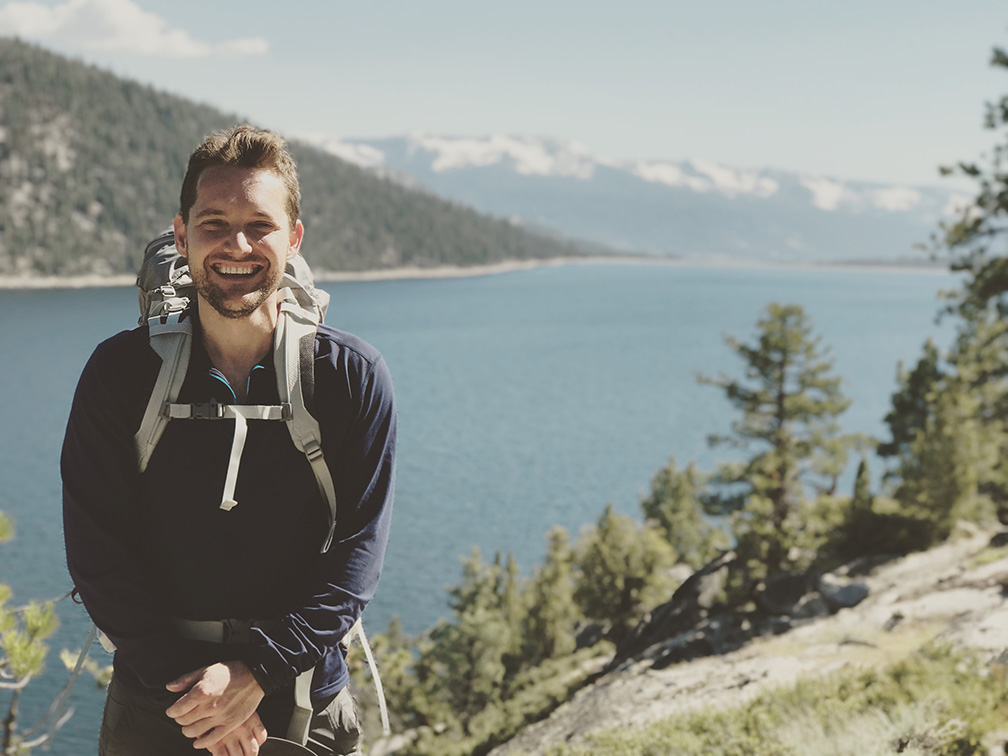
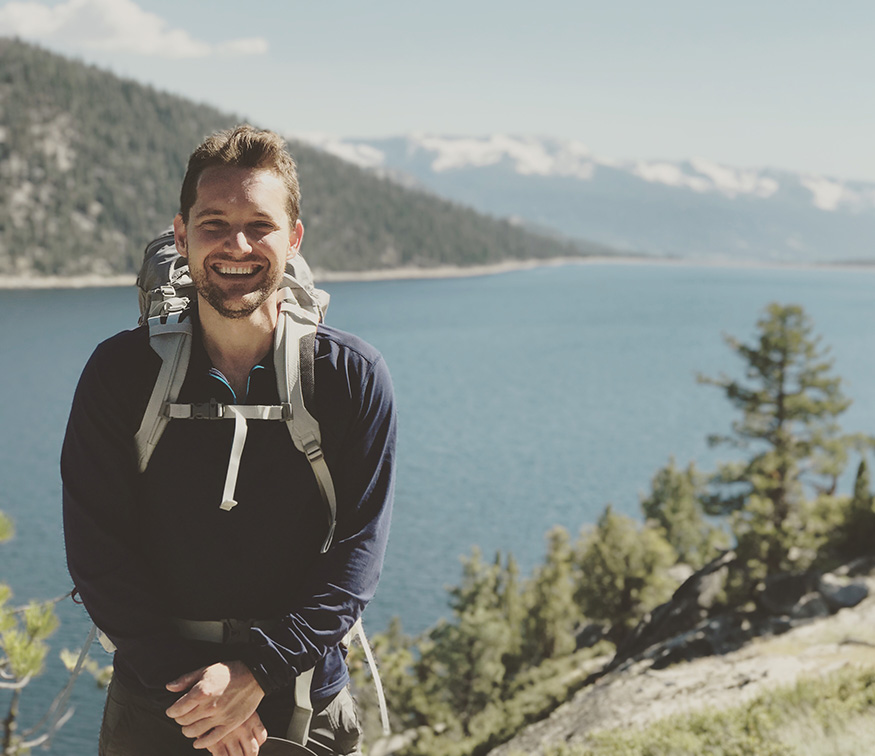
Updating Game Dev download links

diff --git a/src/index.html b/src/index.html
@@ -12,7 +12,7 @@
         <div
           style="
             display: flex;
-            align-items: flex-start;
+            align-items: center;
             gap: var(--space5);
             margin-top: var(--space6);
           "
@@ -20,11 +20,11 @@
           <img
             src="assets/stephen-haney-backpacking-sierras.jpg"
             alt="Stephen Haney backpacking in the Sierras. A mountain lake is in the background."
-            width="40%"
+            width="36%"
             style="margin: 0"
           />
 
-          <div style="margin-top: var(--space4)">
+          <div>
             <h1>Hey, I'm Stephen</h1>
 
             <p>

diff --git a/scripts/src/main.rs b/scripts/src/main.rs
@@ -146,11 +146,14 @@ fn build_file(file_path: &std::path::PathBuf) {
             let template_raw_html = fs::read_to_string(&template_file_path)
                 .expect("Could not find _template.html file for markdown");
 
-            let mut final_html = bake_markdown::bake_markdown(raw_md, template_raw_html);
-            // We need to use the source path for the template as imports are relative to the template
-            final_html = bake_imports::bake_imports(&template_file_path, final_html);
-            let modified_source_path = file_path.with_extension("html");
-            write_file::write_file(&modified_source_path, &final_html);
+            if let Some(mut final_html) = bake_markdown::bake_markdown(raw_md, template_raw_html) {
+                // We need to use the source path for the template as imports are relative to the template
+                final_html = bake_imports::bake_imports(&template_file_path, final_html);
+                let modified_source_path = file_path.with_extension("html");
+                write_file::write_file(&modified_source_path, &final_html);
+            } else {
+                println!("Skipping markdown file: {:?}", &file_path);
+            }
         }
         // Anything else, copy over directly:
         _ => copy_file::copy_file(file_path),

diff --git a/scripts/src/bake_markdown.rs b/scripts/src/bake_markdown.rs
@@ -2,10 +2,16 @@ use gray_matter::engine::YAML;
 use gray_matter::Matter;
 use pulldown_cmark::{html, Options, Parser};
 
-pub fn bake_markdown(raw_md: String, template_raw_html: String) -> String {
+pub fn bake_markdown(raw_md: String, template_raw_html: String) -> Option<String> {
   // Parse out frontmatter
   let matter_parser = Matter::<YAML>::new();
   let structured_post = matter_parser.parse(&raw_md);
+
+  if structured_post.data.as_ref().is_none() {
+    println!("MD file is missing its metadata, title, author, and publish_date are required");
+    return None;
+  }
+
   let title = structured_post.data.as_ref().unwrap()["title"]
     .as_string()
     .expect("Could not find title data in markdown");
@@ -33,5 +39,5 @@ pub fn bake_markdown(raw_md: String, template_raw_html: String) -> String {
     // Make sure to keep the big one last since each replace is a fresh allocation
     .replace("{{ markdown_content }}", &baked_html);
 
-  return final_html;
+  return Some(final_html);
 }

diff --git a/src/game-development-with-swift/index.md b/src/game-development-with-swift/index.md
@@ -6,48 +6,48 @@ publish_date: 2017-01-19
 
 This page contains a link to all of the checkpoints and assets from the book.
 
-**Important: You can use Xcode’s Edit > Convert > To Latest Swift Syntax to update this code to the newest version of Swift.**
+**Important: You can use Xcode’s `Edit` > `Convert` > `To Latest Swift Syntax` to update this code to the newest version of Swift.**
 
 Version: Swift 3 Game Development
 
-<a href="/assets/swift-3/assets.zip">Download Asset Bundle</a>
+<a href="https://github.com/StephenHaney/game-development-with-swift-assets/blob/main/assets/swift-3/assets.zip?raw=true">Download Asset Bundle</a>
 
-<a href="/assets/chapter-2/swift-3/Checkpoint-2A">Download Checkpoint 2A</a>
+<a href="https://github.com/StephenHaney/game-development-with-swift-assets/blob/main/chapter-2/swift-3/Checkpoint-2A.zip?raw=true">Download Checkpoint 2A</a>
 
-<a href="/assets/chapter-2/swift-3/Checkpoint-2B">Download Checkpoint 2B</a>
+<a href="https://github.com/StephenHaney/game-development-with-swift-assets/blob/main/chapter-2/swift-3/Checkpoint-2B.zip?raw=true">Download Checkpoint 2B</a>
 
-<a href="/assets/chapter-3/swift-3/Checkpoint-3A">Download Checkpoint 3A</a>
+<a href="https://github.com/StephenHaney/game-development-with-swift-assets/blob/main/chapter-3/swift-3/Checkpoint-3A.zip?raw=true">Download Checkpoint 3A</a>
 
-<a href="/assets/chapter-3/swift-3/Checkpoint-3B">Download Checkpoint 3B</a>
+<a href="https://github.com/StephenHaney/game-development-with-swift-assets/blob/main/chapter-3/swift-3/Checkpoint-3B.zip?raw=true">Download Checkpoint 3B</a>
 
-<a href="/assets/chapter-4/swift-3/Checkpoint-4A">Download Checkpoint 4A</a>
+<a href="https://github.com/StephenHaney/game-development-with-swift-assets/blob/main/chapter-4/swift-3/Checkpoint-4A.zip?raw=true">Download Checkpoint 4A</a>
 
-<a href="/assets/chapter-4/swift-3/Checkpoint-4B">Download Checkpoint 4B</a>
+<a href="https://github.com/StephenHaney/game-development-with-swift-assets/blob/main/chapter-4/swift-3/Checkpoint-4B.zip?raw=true">Download Checkpoint 4B</a>
 
-<a href="/assets/chapter-5/swift-3/Checkpoint-5A">Download Checkpoint 5A</a>
+<a href="https://github.com/StephenHaney/game-development-with-swift-assets/blob/main/chapter-5/swift-3/Checkpoint-5A.zip?raw=true">Download Checkpoint 5A</a>
 
-<a href="/assets/chapter-6/swift-3/Checkpoint-6A">Download Checkpoint 6A</a>
+<a href="https://github.com/StephenHaney/game-development-with-swift-assets/blob/main/chapter-6/swift-3/Checkpoint-6A.zip?raw=true">Download Checkpoint 6A</a>
 
-<a href="/assets/chapter-6/swift-3/Checkpoint-6B">Download Checkpoint 6B</a>
+<a href="https://github.com/StephenHaney/game-development-with-swift-assets/blob/main/chapter-6/swift-3/Checkpoint-6B.zip?raw=true">Download Checkpoint 6B</a>
 
-<a href="/assets/chapter-7/swift-3/Checkpoint-7A">Download Checkpoint 7A</a>
+<a href="https://github.com/StephenHaney/game-development-with-swift-assets/blob/main/chapter-7/swift-3/Checkpoint-7A.zip?raw=true">Download Checkpoint 7A</a>
 
-<a href="/assets/chapter-7/swift-3/Checkpoint-7B">Download Checkpoint 7B</a>
+<a href="https://github.com/StephenHaney/game-development-with-swift-assets/blob/main/chapter-7/swift-3/Checkpoint-7B.zip?raw=true">Download Checkpoint 7B</a>
 
-<a href="/assets/chapter-8/swift-3/Checkpoint-8A">Download Checkpoint 8A</a>
+<a href="https://github.com/StephenHaney/game-development-with-swift-assets/blob/main/chapter-8/swift-3/Checkpoint-8A.zip?raw=true">Download Checkpoint 8A</a>
 
-<a href="/assets/chapter-8/swift-3/Checkpoint-8B">Download Checkpoint 8B</a>
+<a href="https://github.com/StephenHaney/game-development-with-swift-assets/blob/main/chapter-8/swift-3/Checkpoint-8B.zip?raw=true">Download Checkpoint 8B</a>
 
-<a href="/assets/chapter-9/swift-3/Checkpoint-9A">Download Checkpoint 9A</a>
+<a href="https://github.com/StephenHaney/game-development-with-swift-assets/blob/main/chapter-9/swift-3/Checkpoint-9A.zip?raw=true">Download Checkpoint 9A</a>
 
-<a href="/assets/chapter-9/swift-3/Checkpoint-9B">Download Checkpoint 9B</a>
+<a href="https://github.com/StephenHaney/game-development-with-swift-assets/blob/main/chapter-9/swift-3/Checkpoint-9B.zip?raw=true">Download Checkpoint 9B</a>
 
-<a href="/assets/chapter-10/swift-3/Checkpoint-10A">Download Checkpoint 10A</a>
+<a href="https://github.com/StephenHaney/game-development-with-swift-assets/blob/main/chapter-10/swift-3/Checkpoint-10A.zip?raw=true">Download Checkpoint 10A</a>
 
-<a href="/assets/chapter-10/swift-3/Checkpoint-10B">Download Checkpoint 10B</a>
+<a href="https://github.com/StephenHaney/game-development-with-swift-assets/blob/main/chapter-10/swift-3/Checkpoint-10B.zip?raw=true">Download Checkpoint 10B</a>
 
-<a href="/assets/chapter-12/swift-3/Checkpoint-12A">Download Checkpoint 12A</a>
+<a href="https://github.com/StephenHaney/game-development-with-swift-assets/blob/main/chapter-12/swift-3/Checkpoint-12A.zip?raw=true">Download Checkpoint 12A</a>
 
-<a href="/assets/chapter-12/swift-3/Checkpoint-12B">Download Checkpoint 12B</a>
+<a href="https://github.com/StephenHaney/game-development-with-swift-assets/blob/main/chapter-12/swift-3/Checkpoint-12B.zip?raw=true">Download Checkpoint 12B</a>
 
 Thanks for reading!

diff --git a/src/game-development-with-swift/chapter-10/index.md b/src/game-development-with-swift/chapter-10/index.md
@@ -4,18 +4,18 @@ author: Stephen Haney
 publish_date: 2015-07-20
 ---
 
-**Important: You can use Xcode’s Edit > Convert > To Latest Swift Syntax to update this code to the newest version of Swift.**
+**Important: You can use Xcode’s `Edit` > `Convert` > `To Latest Swift Syntax` to update this code to the newest version of Swift.**
 
 ## Swift 3 Game Development
 
-<a href="swift-3/Checkpoint-10A.zip">Download Checkpoint 10A</a>
+<a href="https://github.com/StephenHaney/game-development-with-swift-assets/blob/main/chapter-10/swift-3/Checkpoint-10A.zip?raw=true">Download Checkpoint 10A</a>
 
-<a href="swift-3/Checkpoint-10B.zip">Download Checkpoint 10B</a>
+<a href="https://github.com/StephenHaney/game-development-with-swift-assets/blob/main/chapter-10/swift-3/Checkpoint-10B.zip?raw=true">Download Checkpoint 10B</a>
 
 ## Game Development with Swift 1.2
 
-<a href="swift-1/Checkpoint-10A.zip">Download Checkpoint 10A (Legacy Swift 1.2)</a>
+<a href="https://github.com/StephenHaney/game-development-with-swift-assets/blob/main/chapter-10/swift-1/Checkpoint-10A.zip?raw=true">Download Checkpoint 10A (Legacy Swift 1.2)</a>
 
-<a href="swift-1/Checkpoint-10B.zip">Download Checkpoint 10B (Legacy Swift 1.2)</a>
+<a href="https://github.com/StephenHaney/game-development-with-swift-assets/blob/main/chapter-10/swift-1/Checkpoint-10B.zip?raw=true">Download Checkpoint 10B (Legacy Swift 1.2)</a>
 
 Thanks for reading!

diff --git a/src/game-development-with-swift/chapter-2/index.md b/src/game-development-with-swift/chapter-2/index.md
@@ -4,18 +4,18 @@ author: Stephen Haney
 publish_date: 2015-07-20
 ---
 
-**Important: You can use Xcode’s Edit > Convert > To Latest Swift Syntax to update this code to the newest version of Swift.**
+**Important: You can use Xcode’s `Edit` > `Convert` > `To Latest Swift Syntax` to update this code to the newest version of Swift.**
 
 ## Swift 3 Game Development
 
-<a href="swift-3/Checkpoint-2A.zip">Download Checkpoint 2A</a>
+<a href="https://github.com/StephenHaney/game-development-with-swift-assets/blob/main/chapter-2/swift-3/Checkpoint-2A.zip?raw=true">Download Checkpoint 2A</a>
 
-<a href="swift-3/Checkpoint-2B.zip">Download Checkpoint 2B</a>
+<a href="https://github.com/StephenHaney/game-development-with-swift-assets/blob/main/chapter-2/swift-3/Checkpoint-2B.zip?raw=true">Download Checkpoint 2B</a>
 
 ## Game Development with Swift 1.2
 
-<a href="swift-1/Checkpoint-2A.zip">Download Checkpoint 2A (Legacy Swift 1.2)</a>
+<a href="https://github.com/StephenHaney/game-development-with-swift-assets/blob/main/chapter-2/swift-1/Checkpoint-2A.zip?raw=true">Download Checkpoint 2A (Legacy Swift 1.2)</a>
 
-<a href="swift-1/Checkpoint-2B.zip">Download Checkpoint 2B (Legacy Swift 1.2)</a>
+<a href="https://github.com/StephenHaney/game-development-with-swift-assets/blob/main/chapter-2/swift-1/Checkpoint-2B.zip?raw=true">Download Checkpoint 2B (Legacy Swift 1.2)</a>
 
 Thanks for reading!

diff --git a/src/game-development-with-swift/chapter-3/index.md b/src/game-development-with-swift/chapter-3/index.md
@@ -4,18 +4,18 @@ author: Stephen Haney
 publish_date: 2015-07-20
 ---
 
-**Important: You can use Xcode’s Edit > Convert > To Latest Swift Syntax to update this code to the newest version of Swift.**
+**Important: You can use Xcode’s `Edit` > `Convert` > `To Latest Swift Syntax` to update this code to the newest version of Swift.**
 
 ## Swift 3 Game Development
 
-<a href="swift-3/Checkpoint-3A.zip">Download Checkpoint 3A</a>
+<a href="https://github.com/StephenHaney/game-development-with-swift-assets/blob/main/chapter-3/swift-3/Checkpoint-3A.zip?raw=true">Download Checkpoint 3A</a>
 
-<a href="swift-3/Checkpoint-3B.zip">Download Checkpoint 3B</a>
+<a href="https://github.com/StephenHaney/game-development-with-swift-assets/blob/main/chapter-3/swift-3/Checkpoint-3B.zip?raw=true">Download Checkpoint 3B</a>
 
 ## Game Development with Swift 1.2
 
-<a href="swift-1/Checkpoint-3A.zip">Download Checkpoint 3A (Legacy Swift 1.2)</a>
+<a href="https://github.com/StephenHaney/game-development-with-swift-assets/blob/main/chapter-3/swift-1/Checkpoint-3A.zip?raw=true">Download Checkpoint 3A (Legacy Swift 1.2)</a>
 
-<a href="swift-1/Checkpoint-3B.zip">Download Checkpoint 3B (Legacy Swift 1.2)</a>
+<a href="https://github.com/StephenHaney/game-development-with-swift-assets/blob/main/chapter-3/swift-1/Checkpoint-3B.zip?raw=true">Download Checkpoint 3B (Legacy Swift 1.2)</a>
 
 Thanks for reading!

diff --git a/src/game-development-with-swift/chapter-4/index.md b/src/game-development-with-swift/chapter-4/index.md
@@ -4,18 +4,18 @@ author: Stephen Haney
 publish_date: 2015-07-20
 ---
 
-**Important: You can use Xcode’s Edit > Convert > To Latest Swift Syntax to update this code to the newest version of Swift.**
+**Important: You can use Xcode’s `Edit` > `Convert` > `To Latest Swift Syntax` to update this code to the newest version of Swift.**
 
 ## Swift 3 Game Development
 
-<a href="swift-3/Checkpoint-4A.zip">Download Checkpoint 4A</a>
+<a href="https://github.com/StephenHaney/game-development-with-swift-assets/blob/main/chapter-4/swift-3/Checkpoint-4A.zip?raw=true">Download Checkpoint 4A</a>
 
-<a href="swift-3/Checkpoint-4B.zip">Download Checkpoint 4B</a>
+<a href="https://github.com/StephenHaney/game-development-with-swift-assets/blob/main/chapter-4/swift-3/Checkpoint-4B.zip?raw=true">Download Checkpoint 4B</a>
 
 ## Game Development with Swift 1.2
 
-<a href="swift-1/Checkpoint-4A.zip">Download Checkpoint 4A (Legacy Swift 1.2)</a>
+<a href="https://github.com/StephenHaney/game-development-with-swift-assets/blob/main/chapter-4/swift-1/Checkpoint-4A.zip?raw=true">Download Checkpoint 4A (Legacy Swift 1.2)</a>
 
-<a href="swift-1/Checkpoint-4B.zip">Download Checkpoint 4B (Legacy Swift 1.2)</a>
+<a href="https://github.com/StephenHaney/game-development-with-swift-assets/blob/main/chapter-4/swift-1/Checkpoint-4B.zip?raw=true">Download Checkpoint 4B (Legacy Swift 1.2)</a>
 
 Thanks for reading!

diff --git a/src/game-development-with-swift/chapter-6/index.md b/src/game-development-with-swift/chapter-6/index.md
@@ -4,18 +4,18 @@ author: Stephen Haney
 publish_date: 2015-07-20
 ---
 
-**Important: You can use Xcode’s Edit > Convert > To Latest Swift Syntax to update this code to the newest version of Swift.**
+**Important: You can use Xcode’s `Edit` > `Convert` > `To Latest Swift Syntax` to update this code to the newest version of Swift.**
 
 ## Swift 3 Game Development
 
-<a href="swift-3/Checkpoint-6A.zip">Download Checkpoint 6A</a>
+<a href="https://github.com/StephenHaney/game-development-with-swift-assets/blob/main/chapter-6/swift-3/Checkpoint-6A.zip?raw=true">Download Checkpoint 6A</a>
 
-<a href="swift-3/Checkpoint-6B.zip">Download Checkpoint 6B</a>
+<a href="https://github.com/StephenHaney/game-development-with-swift-assets/blob/main/chapter-6/swift-3/Checkpoint-6B.zip?raw=true">Download Checkpoint 6B</a>
 
 ## Game Development with Swift 1.2
 
-<a href="swift-1/Checkpoint-6A.zip">Download Checkpoint 6A (Legacy Swift 1.2)</a>
+<a href="https://github.com/StephenHaney/game-development-with-swift-assets/blob/main/chapter-6/swift-1/Checkpoint-6A.zip?raw=true">Download Checkpoint 6A (Legacy Swift 1.2)</a>
 
-<a href="swift-1/Checkpoint-6B.zip">Download Checkpoint 6B (Legacy Swift 1.2)</a>
+<a href="https://github.com/StephenHaney/game-development-with-swift-assets/blob/main/chapter-6/swift-1/Checkpoint-6B.zip?raw=true">Download Checkpoint 6B (Legacy Swift 1.2)</a>
 
 Thanks for reading!

diff --git a/src/game-development-with-swift/chapter-7/index.md b/src/game-development-with-swift/chapter-7/index.md
@@ -4,18 +4,18 @@ author: Stephen Haney
 publish_date: 2015-07-20
 ---
 
-**Important: You can use Xcode’s Edit > Convert > To Latest Swift Syntax to update this code to the newest version of Swift.**
+**Important: You can use Xcode’s `Edit` > `Convert` > `To Latest Swift Syntax` to update this code to the newest version of Swift.**
 
 ## Swift 3 Game Development
 
-<a href="swift-3/Checkpoint-7A.zip">Download Checkpoint 7A</a>
+<a href="https://github.com/StephenHaney/game-development-with-swift-assets/blob/main/chapter-7/swift-3/Checkpoint-7A.zip?raw=true">Download Checkpoint 7A</a>
 
-<a href="swift-3/Checkpoint-7B.zip">Download Checkpoint 7B</a>
+<a href="https://github.com/StephenHaney/game-development-with-swift-assets/blob/main/chapter-7/swift-3/Checkpoint-7B.zip?raw=true">Download Checkpoint 7B</a>
 
 ## Game Development with Swift 1.2
 
-<a href="swift-1/Checkpoint-7A.zip">Download Checkpoint 7A (Legacy Swift 1.2)</a>
+<a href="https://github.com/StephenHaney/game-development-with-swift-assets/blob/main/chapter-7/swift-1/Checkpoint-7A.zip?raw=true">Download Checkpoint 7A (Legacy Swift 1.2)</a>
 
-<a href="swift-1/Checkpoint-7B.zip">Download Checkpoint 7B (Legacy Swift 1.2)</a>
+<a href="https://github.com/StephenHaney/game-development-with-swift-assets/blob/main/chapter-7/swift-1/Checkpoint-7B.zip?raw=true">Download Checkpoint 7B (Legacy Swift 1.2)</a>
 
 Thanks for reading!

diff --git a/src/game-development-with-swift/chapter-8/index.md b/src/game-development-with-swift/chapter-8/index.md
@@ -4,18 +4,18 @@ author: Stephen Haney
 publish_date: 2015-07-20
 ---
 
-**Important: You can use Xcode’s Edit > Convert > To Latest Swift Syntax to update this code to the newest version of Swift.**
+**Important: You can use Xcode’s `Edit` > `Convert` > `To Latest Swift Syntax` to update this code to the newest version of Swift.**
 
 ## Swift 3 Game Development
 
-<a href="swift-3/Checkpoint-8A.zip">Download Checkpoint 8A</a>
+<a href="https://github.com/StephenHaney/game-development-with-swift-assets/blob/main/chapter-8/swift-3/Checkpoint-8A.zip?raw=true">Download Checkpoint 8A</a>
 
-<a href="swift-3/Checkpoint-8B.zip">Download Checkpoint 8B</a>
+<a href="https://github.com/StephenHaney/game-development-with-swift-assets/blob/main/chapter-8/swift-3/Checkpoint-8B.zip?raw=true">Download Checkpoint 8B</a>
 
 ## Game Development with Swift 1.2
 
-<a href="swift-1/Checkpoint-8A.zip">Download Checkpoint 8A (Legacy Swift 1.2)</a>
+<a href="https://github.com/StephenHaney/game-development-with-swift-assets/blob/main/chapter-8/swift-1/Checkpoint-8A.zip?raw=true">Download Checkpoint 8A (Legacy Swift 1.2)</a>
 
-<a href="swift-1/Checkpoint-8B.zip">Download Checkpoint 8B (Legacy Swift 1.2)</a>
+<a href="https://github.com/StephenHaney/game-development-with-swift-assets/blob/main/chapter-8/swift-1/Checkpoint-8B.zip?raw=true">Download Checkpoint 8B (Legacy Swift 1.2)</a>
 
 Thanks for reading!

diff --git a/src/game-development-with-swift/chapter-9/index.md b/src/game-development-with-swift/chapter-9/index.md
@@ -4,18 +4,18 @@ author: Stephen Haney
 publish_date: 2015-07-20
 ---
 
-**Important: You can use Xcode’s Edit > Convert > To Latest Swift Syntax to update this code to the newest version of Swift.**
+**Important: You can use Xcode’s `Edit` > `Convert` > `To Latest Swift Syntax` to update this code to the newest version of Swift.**
 
 ## Swift 3 Game Development
 
-<a href="swift-3/Checkpoint-9A.zip">Download Checkpoint 9A</a>
+<a href="https://github.com/StephenHaney/game-development-with-swift-assets/blob/main/chapter-9/swift-3/Checkpoint-9A.zip?raw=true">Download Checkpoint 9A</a>
 
-<a href="swift-3/Checkpoint-9B.zip">Download Checkpoint 9B</a>
+<a href="https://github.com/StephenHaney/game-development-with-swift-assets/blob/main/chapter-9/swift-3/Checkpoint-9B.zip?raw=true">Download Checkpoint 9B</a>
 
 ## Game Development with Swift 1.2
 
-<a href="swift-1/Checkpoint-9A.zip">Download Checkpoint 9A (Legacy Swift 1.2)</a>
+<a href="https://github.com/StephenHaney/game-development-with-swift-assets/blob/main/chapter-9/swift-1/Checkpoint-9A.zip?raw=true">Download Checkpoint 9A (Legacy Swift 1.2)</a>
 
-<a href="swift-1/Checkpoint-9B.zip">Download Checkpoint 9B (Legacy Swift 1.2)</a>
+<a href="https://github.com/StephenHaney/game-development-with-swift-assets/blob/main/chapter-9/swift-1/Checkpoint-9B.zip?raw=true">Download Checkpoint 9B (Legacy Swift 1.2)</a>
 
 Thanks for reading!
